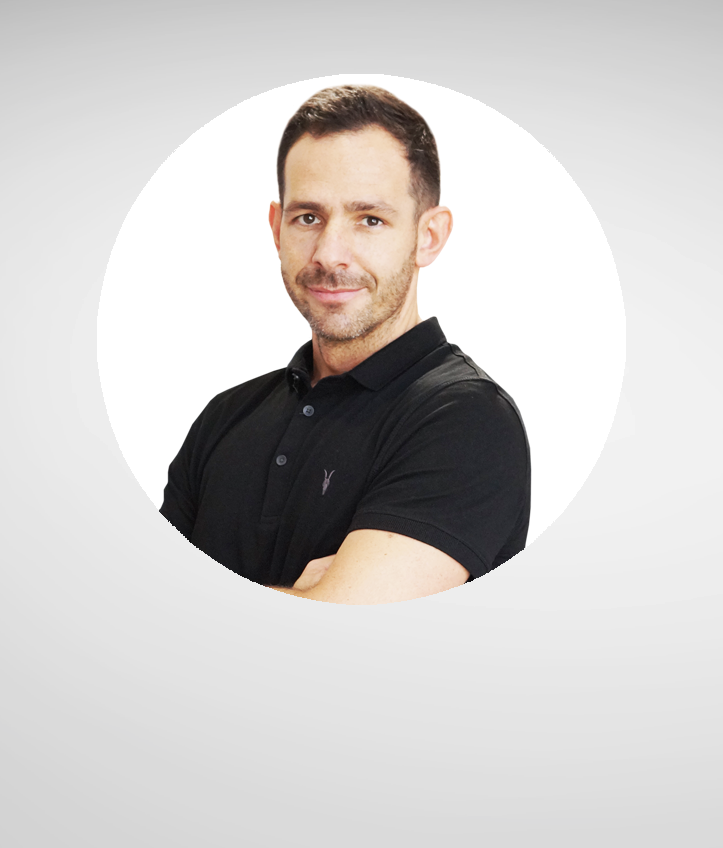
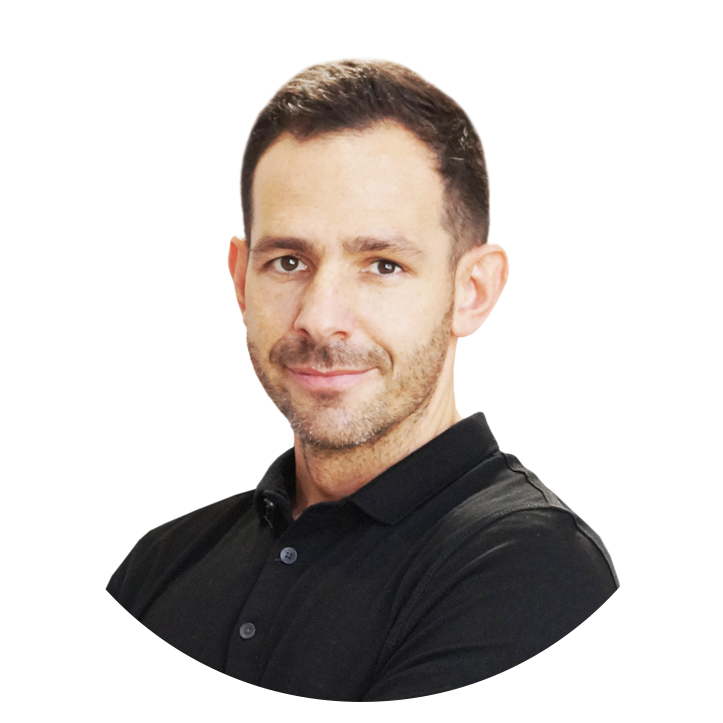
Updated based on feedback

diff --git a/src/pages/our-team/index.js b/src/pages/our-team/index.js
@@ -5,6 +5,13 @@ import SEO from "../../components/Seo"
 import NavigationBar from "../../components/NavigationBar"
 import Modal from "../../components/Modal"
 import profilePete from "../../images/profile-pete.png"
+import profileKarolina from "../../images/profile-karolina.png"
+import profileDan from "../../images/profile-dan.png"
+import profileKirstie from "../../images/profile-kirstie.png"
+import profileRichard from "../../images/profile-richard.png"
+import profileJustin from "../../images/profile-justin.png"
+import profileAmber from "../../images/profile-amber.png"
+import profileKerry from "../../images/profile-kerry.png"
 
 import "./style.scss"
 
@@ -89,7 +96,7 @@ const About = () => {
                   <TeamMemberCard
                     name="Karolina Sega Fajecka"
                     role="Academy Co-Founder"
-                    imageUrl={profilePete}
+                    imageUrl={profileKarolina}
                   >
                     <p>
                       The brains behind the business, Karolina makes things
@@ -120,7 +127,7 @@ const About = () => {
                   <TeamMemberCard
                     name="Dan Maloney"
                     role="Instructor"
-                    imageUrl={profilePete}
+                    imageUrl={profileDan}
                   >
                     <p>
                       In 2016 Dan arranged for him and his partner to attend a
@@ -136,7 +143,7 @@ const About = () => {
                     </p>
                     <p>Qualifications:</p>
                     <ul>
-                      <li>Krav Maga Instructor, Graduate Level 2</li>
+                      <li>Krav Maga Instructor, Graduate Level 3</li>
                       <li>Krav Maga Kids Instructor</li>
                     </ul>
                   </TeamMemberCard>
@@ -146,9 +153,9 @@ const About = () => {
               <div className="row">
                 <div className="teamMember">
                   <TeamMemberCard
-                    name="Kirsty Loft"
+                    name="Kirstie Loft"
                     role="Instructor"
-                    imageUrl={profilePete}
+                    imageUrl={profileKirstie}
                   >
                     <p>
                       Kirstie plays a vital role in the Academy, joining us in
@@ -175,7 +182,7 @@ const About = () => {
                   <TeamMemberCard
                     name="Richard McCort"
                     role="Instructor"
-                    imageUrl={profilePete}
+                    imageUrl={profileRichard}
                   >
                     <p>
                       Richard always enjoyed keeping fit and sports, having
@@ -185,7 +192,7 @@ const About = () => {
                     </p>
                     <p>Qualifications:</p>
                     <ul>
-                      <li>Krav Maga Instructor, Graduate Level 2</li>
+                      <li>Krav Maga Instructor, Graduate Level 3</li>
                       <li>
                         BTEC Level 3 Advanced Award in Self Defence Instruction
                       </li>
@@ -198,7 +205,7 @@ const About = () => {
                   <TeamMemberCard
                     name="Justin Bailey"
                     role="Instructor"
-                    imageUrl={profilePete}
+                    imageUrl={profileJustin}
                   >
                     <p>
                       Justin began training in Krav Maga with the Academy in
@@ -220,6 +227,44 @@ const About = () => {
                     </ul>
                   </TeamMemberCard>
                 </div>
+              </div>
+
+              <div className="row">
+                <div className="teamMember">
+                  <TeamMemberCard
+                    name="Amber"
+                    role="Academy Supervisor"
+                    imageUrl={profileAmber}
+                  >
+                    <p>
+                      Amber joins the team as Academy Supervisor. Her
+                      responsibilities include managing the day-to-day operation
+                      of the Academy, welcoming students and their families to
+                      the venue and ensuring a pleasing experience.
+                    </p>
+                    <p>
+                      Amber has been a wrestling fanatic since 2014; she is
+                      currently being trained as a Martial Arts instructor and
+                      will join Kirstie in teaching our young students.
+                    </p>
+                  </TeamMemberCard>
+                </div>
+
+                <div className="teamMember">
+                  <TeamMemberCard
+                    name="Kerry"
+                    role="Programme Director"
+                    imageUrl={profileKerry}
+                  >
+                    <p>
+                      Kerry joins the Academy as Programme Director. She is
+                      responsible for holding initial consultations, upgrading
+                      existing members, as well as assisting with student
+                      onboarding and providing a stress-free joining process.
+                    </p>
+                  </TeamMemberCard>
+                </div>
+                <div className="teamMember hidden"></div>
               </div>
             </div>
           </div>

diff --git a/src/components/Layout/index.js b/src/components/Layout/index.js
@@ -73,6 +73,9 @@ const Layout = ({ children }) => {
                   <Link to="/about-us">About</Link>
                 </li>
                 <li>
+                  <Link to="/get-started">Get Started</Link>
+                </li>
+                <li>
                   <Link to="/our-team">Our Team</Link>
                 </li>
                 <li>
@@ -103,7 +106,9 @@ const Layout = ({ children }) => {
               <h3 className="title">Contact Us</h3>
               <p className="companyName">{fullTitle}</p>
 
-              <p className="companyAddress">{companyAddress}</p>
+              <p className="lightWeight">{companyAddress}</p>
+
+              <p className="lightWeight">{contactNumber}</p>
 
               <div className="socialMedia">
                 <a href={facebookUrl} target="_blank" rel="noreferrer">

diff --git a/src/components/NavigationBar/index.js b/src/components/NavigationBar/index.js
@@ -28,6 +28,9 @@ const NavigationBar = () => {
                 <Link to="/about-us">About</Link>
               </li>
               <li>
+                <Link to="/get-started">Get Started</Link>
+              </li>
+              <li>
                 <Link to="/our-team">Our Team</Link>
               </li>
               <li>
@@ -47,6 +50,9 @@ const NavigationBar = () => {
               </li>
               <li>
                 <Link to="/about-us">About</Link>
+              </li>
+              <li>
+                <Link to="/get-started">Get Started</Link>
               </li>
               <li>
                 <Link to="/our-team">Our Team</Link>

diff --git a/src/components/Layout/style.scss b/src/components/Layout/style.scss
@@ -24,14 +24,11 @@ body {
   }
 }
 .contactBar {
-  display: none;
+  display: flex;
+  align-items: center;
+
   background-color: $brand-orange;
   height: 40px;
-
-  @media (min-width: $tablet-breakpoint-width) {
-    display: flex;
-    align-items: center;
-  }
 
   .headerContent {
     display: flex;
@@ -39,6 +36,10 @@ body {
   }
 
   .socialMedia {
+    @media (max-width: $tablet-breakpoint-width) {
+      display: none;
+    }
+
     .icon {
       width: 25px;
       height: 25px;
@@ -127,7 +128,7 @@ footer {
       font-size: 1.25rem;
     }
 
-    .companyAddress {
+    .lightWeight {
       font-weight: 300;
     }
 

diff --git a/src/pages/get-started/style.scss b/src/pages/get-started/style.scss
@@ -114,9 +114,10 @@
     .testimonial {
       padding: 0 30px;
       flex: 1;
+      text-align: center;
 
       img {
-        width: 100%;
+        width: 200px;
       }
 
       p {

diff --git a/src/pages/home/style.scss b/src/pages/home/style.scss
@@ -190,9 +190,10 @@
     .testimonial {
       padding: 0 30px;
       flex: 1;
+      text-align: center;
 
       img {
-        width: 100%;
+        width: 200px;
       }
 
       p {

diff --git a/src/styles/colours.scss b/src/styles/colours.scss
@@ -1,2 +1,2 @@
 $brand-orange: #ff4a00;
-$brand-grey: #b5c4c9;
+$brand-grey: #7c8f8f;
